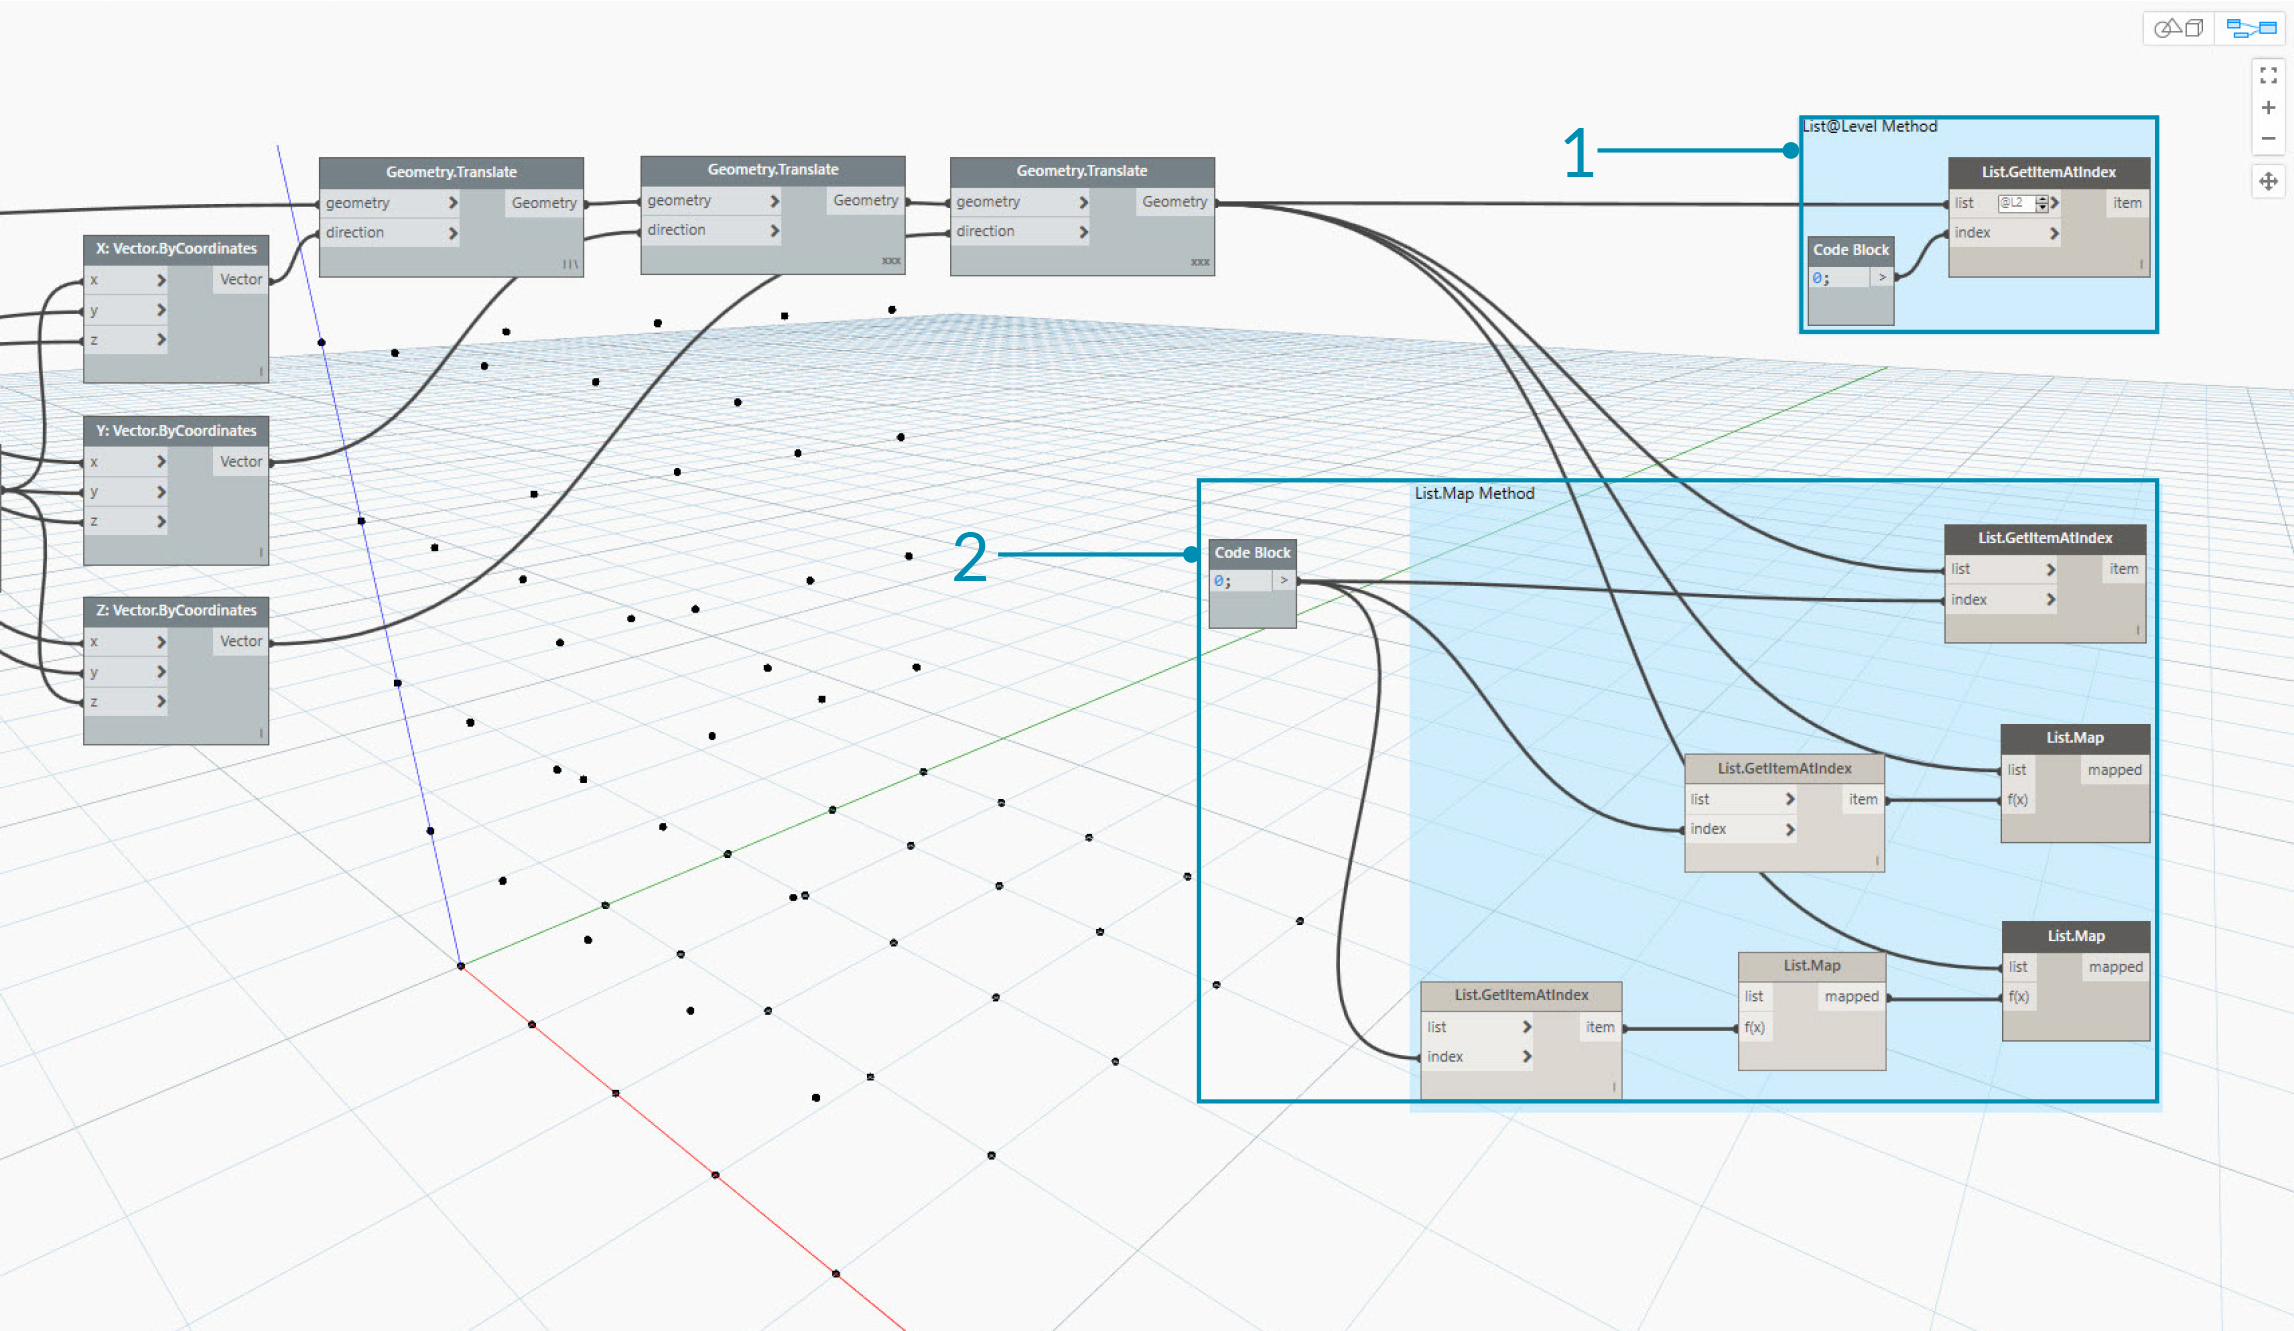
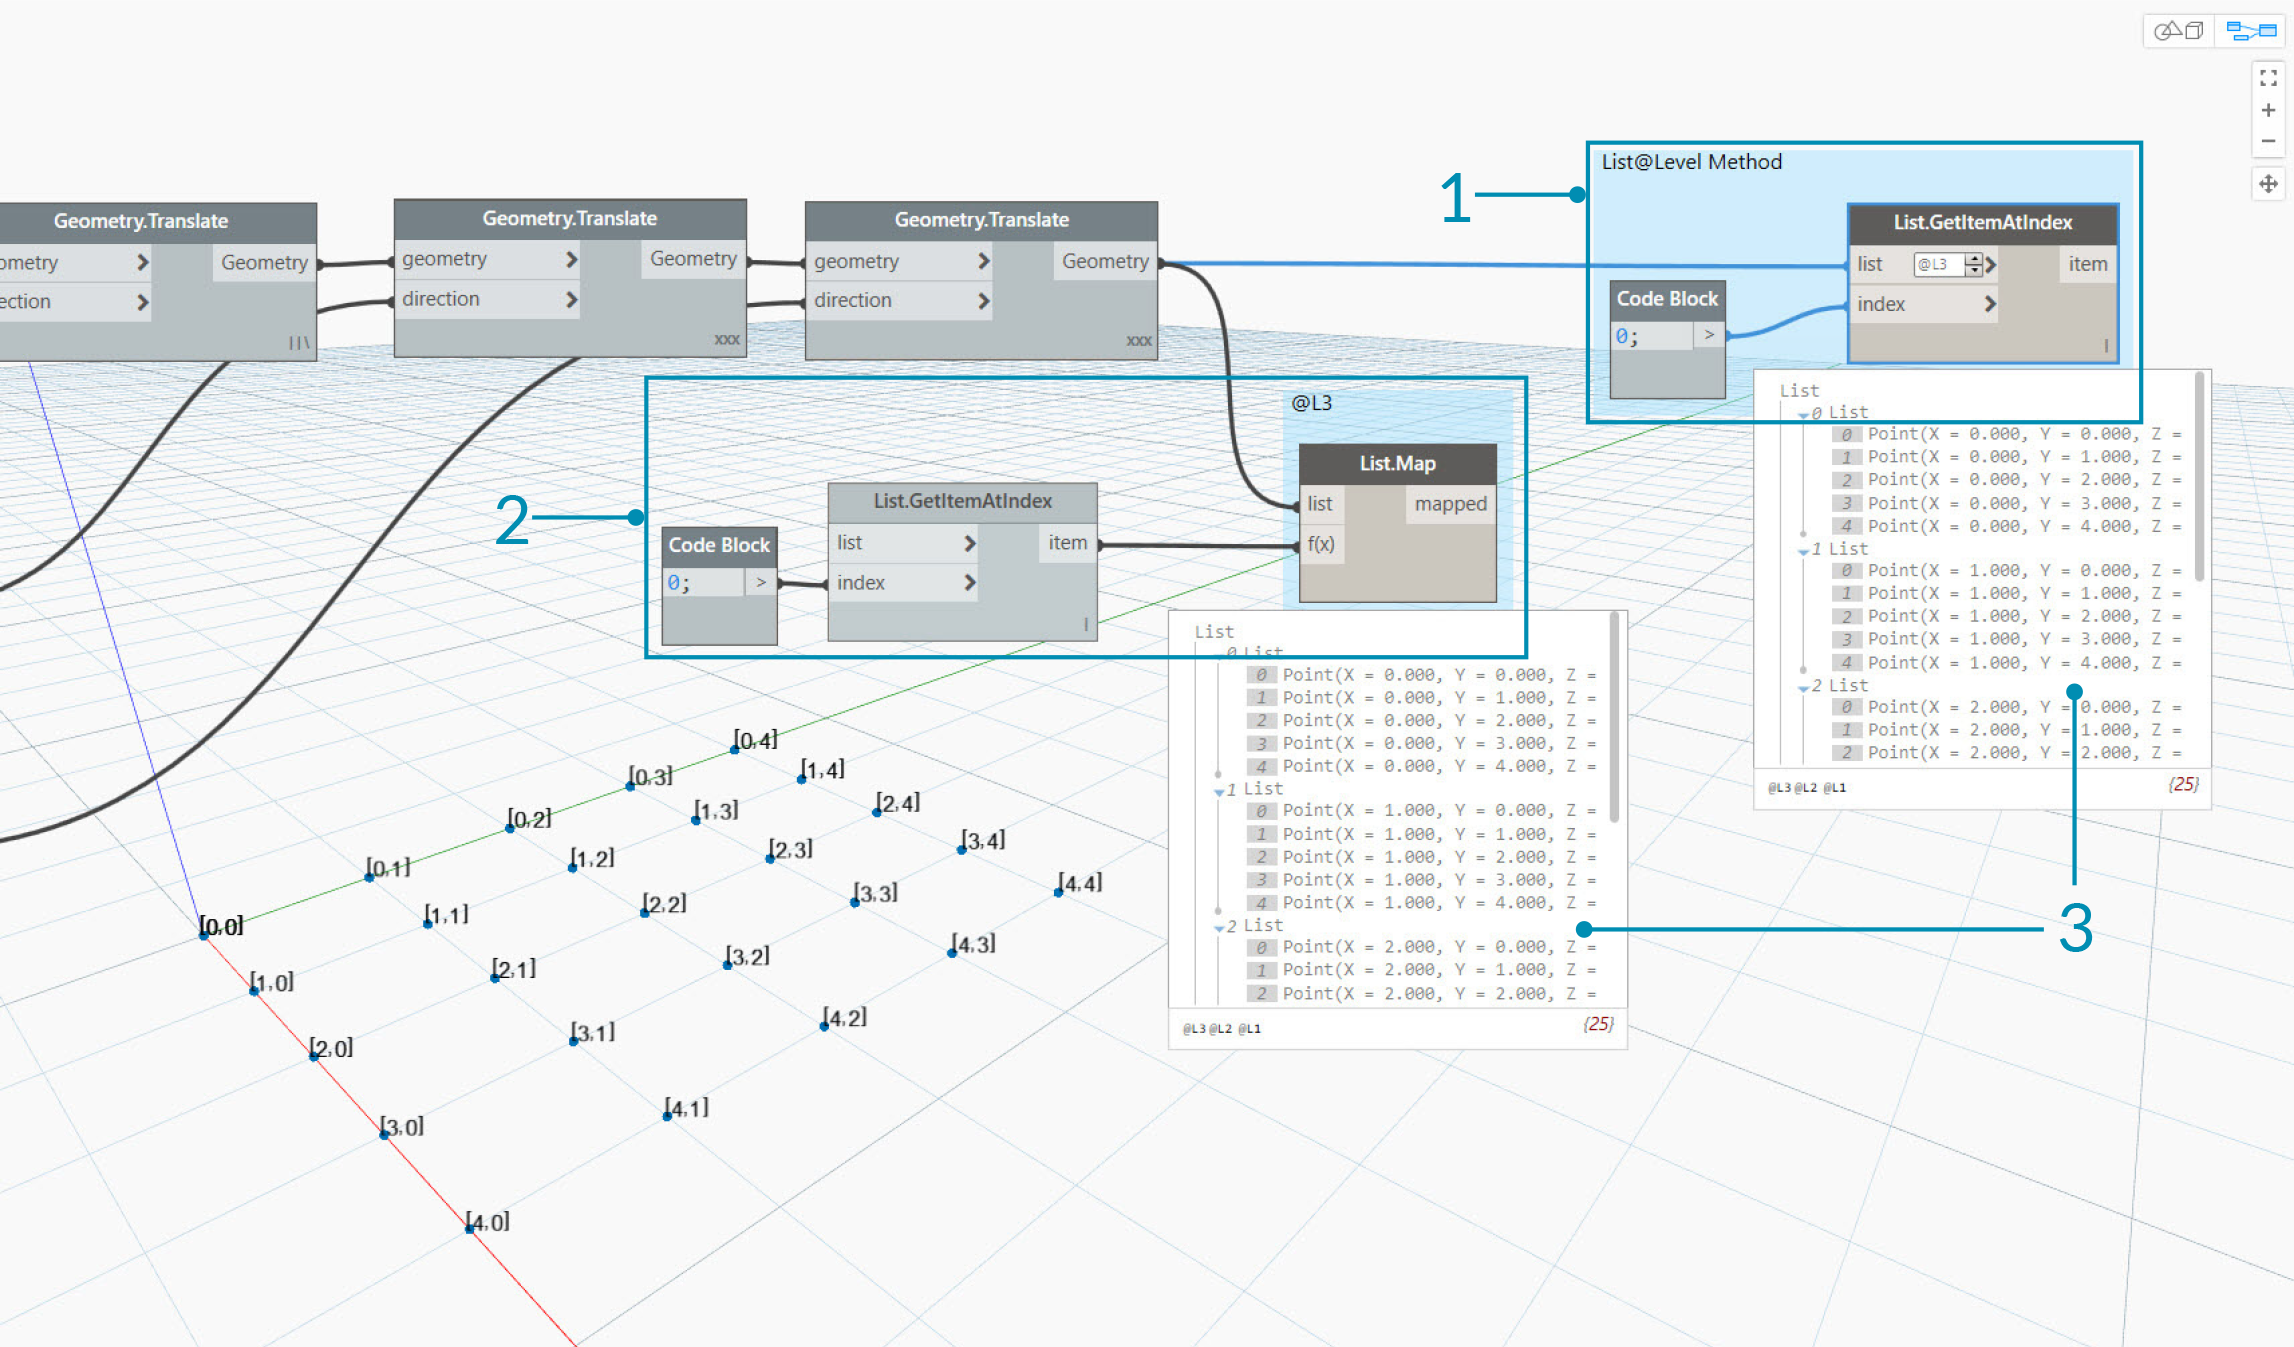
new comment updates

diff --git a/en/06_Designing-with-Lists/6-3_lists-of-lists.md b/en/06_Designing-with-Lists/6-3_lists-of-lists.md
@@ -53,13 +53,13 @@ Flatten removes all tiers of data from a data structure. This is helpful when th
 ![Exercise](images/6-3/Exercise/Flatten-30.png)
 >1. By inserting a *flatten* before the polycurve node, we've created one single list for all of the points.  The polycurve node references a list to create one curve, and since all of the points are on one list, we get one zig-zag polycurve which runs throughout the entire list of points.
 
-There are also options for flattening isolated tiers of data.  Using the List.Flatten node, you can define a set number of data tiers to flatten from the top of the hierarchy.  This is a really helpful tool if you're struggling with complex data structures which are not necessarily relevant to your workflow.  And another option is to use the flatten node as a function in List.Map.  We'll discuss List.Map more below.
+There are also options for flattening isolated tiers of data.  Using the List.Flatten node, you can define a set number of data tiers to flatten from the top of the hierarchy.  This is a really helpful tool if you're struggling with complex data structures which are not necessarily relevant to your workflow.  And another option is to use the flatten node as a function in List.Map.  We'll discuss [List.Map](#listmap-and-listcombine) more below.
 
 ###Chop
 When parametric modeling, there are also times where you'll want to add more data structure to an existing list.  There are many nodes available for this as well, and chop is the most basic version.  With chop, we can partition a list into sublists with a set number of items.
 
 #### Exercise - List.Chop
->Download the example file that accompanies this exercise (Right click and "Save Link As..."): [Chop.dyn](datasets/6-3/Chop.dyn). A full list of example files can be found in the Appendix.
+>Download the example file that accompanies this exercise (Right click and "Save Link As..."): [Chop.dyn](datasets/6-3/Chop.dyn). A full list of example files can be found in the [Appendix](../Appendix/A_appendix.md).
 
 ![Chop](images/6-3/chop-01.jpg)
 > A *List.Chop *with a *subLength* of 2 creates 4 lists with 2 items each.
@@ -72,13 +72,15 @@ The chop command divides lists based on a given list length. In some ways, chop 
 A List.Map/Combine applies a set function to an input list, but one step down in the hierarchy. Combinations are the same as Maps, except combinations can have multiple inputs corresponding to the input of a given function.
 
 #### Exercise - List.Map
->Download the example file that accompanies this exercise (Right click and "Save Link As..."): [Map.dyn](datasets/6-3/Map.dyn). A full list of example files can be found in the Appendix.
+*Note: This exercise was created with a previous version of Dynamo. Much of the List.Map functionality has been resolved with the addition of the List@Level feature. For more information, see [List@Level](#listlevel) below.*
+
+>Download the example file that accompanies this exercise (Right click and "Save Link As..."): [Map.dyn](datasets/6-3/Map.dyn). A full list of example files can be found in the [Appendix](../Appendix/A_appendix.md).
 
 As a quick introduction, let's review the List.Count node from a previous section.
 
 ![Exercise](images/6-2/count.png)
 > The *List.Count* node counts all of the items in a list. We'll use this to demonstrate how *List.Map* works.
-
+ 
 ![Exercise](images/6-3/Exercise/A/05.png)
 > 1. Insert two lines of code into the *code block*:
 ```
@@ -105,9 +107,9 @@ Notice that the List.Count node gives a value of 5.  This is equal to the "Nx" v
 3. The results of *List.Count* now gives a list of 5 items, each with a value of 3.  This represents the length of each sublist.
 
 #### Exercise - List.Combine
-*Note: This exercise was created with a previous version of Dynamo. Much of the Combine functionality has been resolved with the addition of the List@Level feature. For more information, see **List@Level** below.*
+*Note: This exercise was created with a previous version of Dynamo. Much of the List.Combine functionality has been resolved with the addition of the List@Level feature. For more information, see [List@Level](#listlevel) below.*
 
->Download the example file that accompanies this exercise (Right click and "Save Link As..."): [Combine.dyn](datasets/6-3/Combine.dyn). A full list of example files can be found in the Appendix.
+>Download the example file that accompanies this exercise (Right click and "Save Link As..."): [Combine.dyn](datasets/6-3/Combine.dyn). A full list of example files can be found in the [Appendix](../Appendix/A_appendix.md).
 
 In this exercise, we'll use a similar logic to List.Map, but with multiple elements.  In this case, we want to divide a list of curves by a unique number of points.
 
@@ -175,7 +177,8 @@ Although this particular example can also be created with List.Map, List@Level g
 
 ![List@Level-vs-ListMap](images/6-3/Exercise/listAtLevel_comparison.png)
 >1. Although both methods will give us access to the same points, the List@Level method allows us to easily toggle between layers of data within a single node.
-2. For a 3-dimensional grid, we need to have three different ways to access three layers of information - one for each grid of points we want to isolate. Depending on the complexity of your Graph, this method may require several List.Map nodes plugged into one another to access a single layer of data. For our third set of points, the graph needs two back to back List.Map nodes, but for more complex data structures it may require many more. 
+2. To access a point grid with List.Map, we will need a List.GetItemAtIndex node alongside the List.Map. For every list level that we are stepping down, we will need to use an additional List.Map node. Depending on the complexity of your lists, this could require you to add a significant amount of List.Map Nodes to your graph to access the right level of information.
+3. In this example, a List.GetItemAtIndex node with a List.Map node reurns the same set of points with the same list structure as the List.GetItemAtIndex with '@L3' selected.
 
 ###Transpose
 Transpose is a fundamental function when dealing with lists of lists. Just as in spreadsheet programs, a transpose flips the columns and rows of a data structure. We'll demonstrate this with a basic matrix below, and in the following section, we'll demonstrate how a transpose can be use to create geometric relationships.
